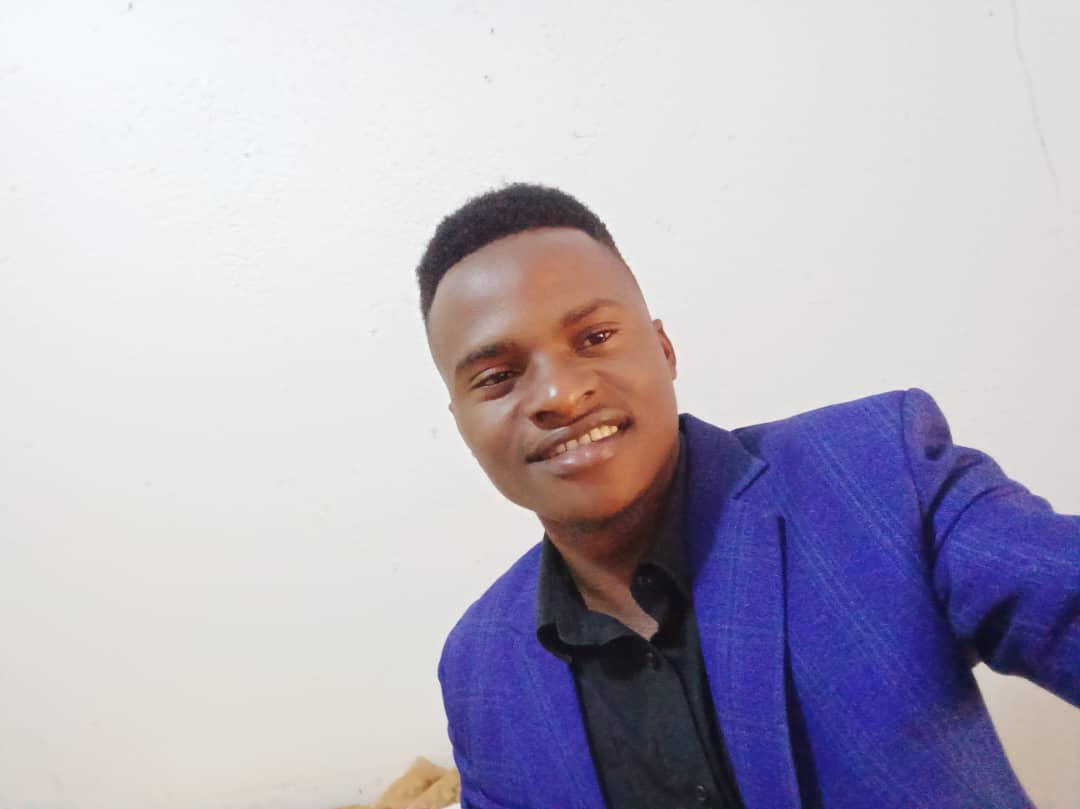
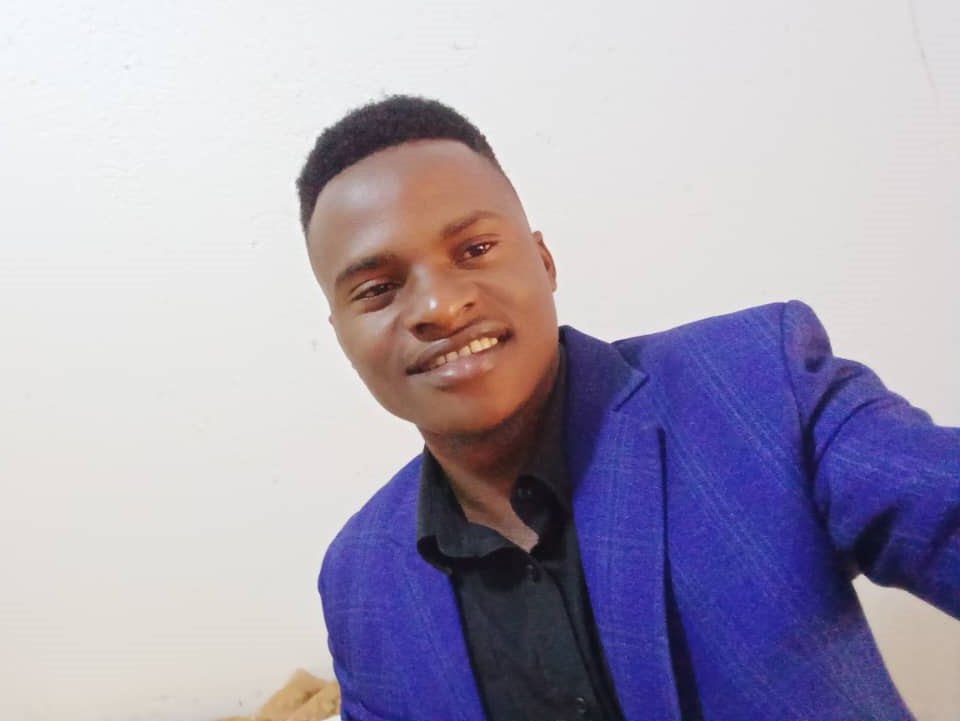
finals

Changed region(s): [[0.2188, 0.1221, 1.0, 1.0]]

diff --git a/index.html b/index.html
@@ -8,6 +8,7 @@
     <link rel="stylesheet" href="https://cdn.jsdelivr.net/npm/bootstrap@5.3.0/dist/css/bootstrap.min.css">
     <link rel="stylesheet" href="styles.css">
     <script src="https://cdn.jsdelivr.net/npm/bootstrap@5.3.0/dist/js/bootstrap.bundle.min.js"></script>
+    <link rel="stylesheet" href="https://cdnjs.cloudflare.com/ajax/libs/font-awesome/6.5.1/css/all.min.css">
 </head>
 
 <body>
@@ -37,11 +38,16 @@
                 Key features include:<br>
             </p>
             <ul class="list-group list-group-flush">
-                <li class="list-group-item">🔹 <strong>Biometric Authentication:</strong> Only registered students can vote.</li>
-                <li class="list-group-item">🔹 <strong>Real-Time Vote Counting:</strong> Results update instantly on student portals.</li>
-                <li class="list-group-item">🔹 <strong>Fraud Prevention:</strong> One student, one vote. Duplicate attempts trigger alarms 🚨.</li>
-                <li class="list-group-item">🔹 <strong>Cybersecurity Measures:</strong> Multi-layer admin authentication & IP filtering.</li>
-                <li class="list-group-item">🔹 <strong>Time-Based Voting:</strong> Only works within official election hours.</li>
+                <li class="list-group-item">🔹 <strong>Biometric Authentication:</strong> Only registered students can
+                    vote.</li>
+                <li class="list-group-item">🔹 <strong>Real-Time Vote Counting:</strong> Results update instantly on
+                    student portals.</li>
+                <li class="list-group-item">🔹 <strong>Fraud Prevention:</strong> One student, one vote. Duplicate
+                    attempts trigger alarms 🚨.</li>
+                <li class="list-group-item">🔹 <strong>Cybersecurity Measures:</strong> Multi-layer admin authentication
+                    & IP filtering.</li>
+                <li class="list-group-item">🔹 <strong>Time-Based Voting:</strong> Only works within official election
+                    hours.</li>
             </ul>
             <!-- 
             <p>📞 Contact: Whatsapp +256706727525</p> -->
@@ -51,39 +57,60 @@
         <section class="row text-center mt-5">
             <h2 class="fw-bold">Meet the Developers</h2>
             <p class="mt-3">Partner with us to enhance university democracy.</p>
+
+            <!-- Developer 1 - Alex -->
             <div class="col-md-6">
                 <div class="card animate shadow-lg">
                     <img src="images/developer.jpg" class="card-img-top" alt="Alex">
                     <div class="card-body">
                         <h5 class="card-title">Eng. Alex</h5>
-                        <p class="card-text">Lead Backend Developer</p>
-                        <a href="#" class="btn btn-primary">LinkedIn</a>
-                        <a href="#" class="btn btn-dark">GitHub</a>
+                        <p class="card-text">Lead Developer (Software)</p>
+                        <div class="social-icons mt-3">
+                            <a href="https://wa.me/256744766410" class="icon-link"><i class="fab fa-whatsapp"></i></a>
+                            <a href="https://www.linkedin.com/in/namurinda-alex-25217a255/" class="icon-link"><i class="fab fa-linkedin"></i></a>
+                            <a href="https://github.com/alexnamurinda" class="icon-link"><i class="fab fa-github"></i></a>
+                            <a href="mailto:namurindaalex44@gmail.com" class="icon-link"><i class="fas fa-envelope"></i></a>
+                            <a href="tel:+256744766410" class="icon-link"><i class="fas fa-phone"></i></a>
+                            <a href="https://youtube.com/@maximaxtechnologies?si=6J_spatUsBiEcHLC" class="icon-link"><i class="fab fa-youtube"></i></a>
+                        </div>
+                        <a href="https://namurindaalex.github.io/portfolio/" class="btn btn-outline-primary mt-3">View Portfolio</a>
                     </div>
                 </div>
             </div>
+
+            <!-- Developer 2 - William -->
             <div class="col-md-6">
                 <div class="card animate shadow-lg">
                     <img src="images/will.jpg" class="card-img-top" alt="William">
                     <div class="card-body">
                         <h5 class="card-title">Eng. William</h5>
-                        <p class="card-text">Frontend & UI/UX Designer</p>
-                        <a href="#" class="btn btn-primary">LinkedIn</a>
-                        <a href="#" class="btn btn-dark">GitHub</a>
+                        <p class="card-text">Lead Developer (Hardwaare integration)</p>
+                        <div class="social-icons mt-3">
+                            <a href="https://wa.me/256706727525" class="icon-link"><i class="fab fa-whatsapp"></i></a>
+                            <a href="https://www.linkedin.com/in/ahaisibwe-william-376a42298/" class="icon-link"><i class="fab fa-linkedin"></i></a>
+                            <a href="#" class="icon-link"><i class="fab fa-github"></i></a>
+                            <a href="mailto:williamahaisibwe.com" class="icon-link"><i class="fas fa-envelope"></i></a>
+                            <a href="tel:+256706727525" class="icon-link"><i class="fas fa-phone"></i></a>
+                            <a href="#" class="icon-link"><i class="fab fa-youtube"></i></a>
+                        </div>
+                        <a href="#" class="btn btn-outline-primary mt-3">View Portfolio</a>
                     </div>
                 </div>
             </div>
         </section>
+
     </main>
 
     <footer class="text-center py-3 mt-4">
-        <p>&copy; 2025 SmartVote | Developed by Eng William ft Eng Alex</p>
+        <p>&copy; 2025 SmartVote | All Rights Reserved</p>
     </footer>
 
     <script>
         // Add animation effect
         document.addEventListener("DOMContentLoaded", function () {
             const elements = document.querySelectorAll(".animate");
+
+            // Initially set the elements to be invisible
             elements.forEach((el) => {
                 el.style.opacity = 0;
                 el.style.transform = "translateY(20px)";
@@ -93,17 +120,23 @@
             function reveal() {
                 elements.forEach((el) => {
                     const position = el.getBoundingClientRect().top;
-                    if (position < window.innerHeight - 100) {
-                        el.style.opacity = 1;
-                        el.style.transform = "translateY(0)";
+                    // If the element is in the viewport (with a small margin)
+                    if (position < window.innerHeight - 100 && position > 0) {
+                        if (!el.classList.contains('animated')) { // Ensure the animation runs only once
+                            el.style.opacity = 1;
+                            el.style.transform = "translateY(0)";
+                            el.classList.add('animated'); // Mark the element as animated
+                        }
                     }
                 });
             }
 
+            // Call reveal on scroll and initially to trigger animations on page load
             window.addEventListener("scroll", reveal);
-            reveal();
+            reveal();  // Trigger the animation when the page is loaded (initial view)
         });
     </script>
+
 </body>
 
 </html>

diff --git a/styles.css b/styles.css
@@ -52,7 +52,8 @@ main {
 .description {
     margin-top: 40px;
 }
-.lead{
+
+.lead {
     font-size: 16px;
     font-weight: 400;
     color: #000;
@@ -69,7 +70,8 @@ main {
 }
 
 .video-container h2,
-.description h2, .row h2 {
+.description h2,
+.row h2 {
     color: #1a237e;
     font-size: 32px;
     margin-bottom: 10px;
@@ -97,7 +99,12 @@ main {
 
 .card img {
     width: 100%;
+    height: 400px;
     border-radius: 10px 10px 0 0;
+    object-fit: cover;
+    justify-content: center;
+    align-items: center;
+
 }
 
 .card:hover {
@@ -105,9 +112,26 @@ main {
     box-shadow: 0 10px 20px rgba(0, 0, 0, 0.2);
 }
 
+/* Social Icons */
+.social-icons {
+    display: flex;
+    justify-content: center;
+    gap: 25px;
+}
+
+.icon-link {
+    font-size: 25px;
+    color: #1a237e;
+    transition: color 0.3s ease-in-out, transform 0.3s ease-in-out;
+}
+
+.icon-link:hover {
+    transform: scale(1.2);
+}
+
+
 footer {
-    background: #1a237e;
+    background: #1f5282;
     color: white;
     padding: 10px;
 }
-
